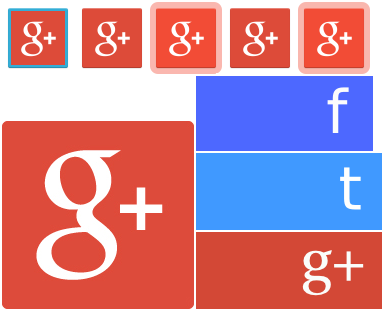
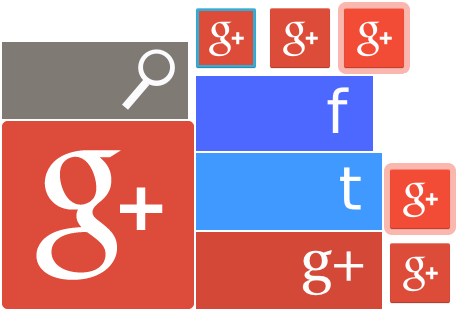
Added a new image for galcon search

diff --git a/GalCon-Client/GalCon-Client/src/com/xxx/galcon/screen/FriendScreen.java b/GalCon-Client/GalCon-Client/src/com/xxx/galcon/screen/FriendScreen.java
@@ -35,14 +35,12 @@ import com.xxx.galcon.http.GameAction;
 import com.xxx.galcon.http.SocialAction;
 import com.xxx.galcon.http.UIConnectionResultCallback;
 import com.xxx.galcon.model.Friend;
-import com.xxx.galcon.model.GameQueueItem;
-import com.xxx.galcon.model.MinifiedGame.MinifiedPlayer;
-import com.xxx.galcon.model.friends.CombinedFriend;
-import com.xxx.galcon.model.friends.FriendCombiner;
-import com.xxx.galcon.model.friends.GalConFriend;
 import com.xxx.galcon.model.GameInviteRequest;
 import com.xxx.galcon.model.People;
 import com.xxx.galcon.model.Point;
+import com.xxx.galcon.model.friends.CombinedFriend;
+import com.xxx.galcon.model.friends.FriendCombiner;
+import com.xxx.galcon.model.friends.GalConFriend;
 import com.xxx.galcon.screen.widget.ActionButton;
 import com.xxx.galcon.screen.widget.ScrollList;
 import com.xxx.galcon.screen.widget.ShaderLabel;
@@ -67,10 +65,7 @@ public class FriendScreen implements ScreenFeedback {
 	private ShaderTextField searchBox;
 	private ShaderLabel noResultsFound;
 	private ActionButton searchButton;
-	private ImageButton allButton;
-	private ShaderLabel allText;
-	private ImageButton friendsButton;
-	private ShaderLabel friendsLabel;
+	private ImageButton galButton;
 	private ImageButton fbButton;
 	private ImageButton gpButton;
 
@@ -105,8 +100,6 @@ public class FriendScreen implements ScreenFeedback {
 		createBg();
 		createWaitImage();
 		createBackButton();
-		createAllTabButton();
-		createFriendsTabButton();
 		createSearchBox();
 		createSearchButton();
 		createSearchLabels();
@@ -115,10 +108,24 @@ public class FriendScreen implements ScreenFeedback {
 		showFriends();
 		showFbButton();
 		showGpButton();
+		showGalconButton();
 		
 		Gdx.input.setInputProcessor(stage);
 	}
 
+
+	private void showGalconButton() {
+		galButton = new ImageButton(skin, Constants.UI.GALCON_SEARCH_IMAGE);
+		galButton.setWidth(Gdx.graphics.getWidth() * 0.2f);
+		galButton.setHeight(Gdx.graphics.getHeight() * 0.15f);
+		galButton.setX(gpButton.getX() - (galButton.getWidth() * 1.1f));
+		galButton.setY(backButton.getY() - (galButton.getHeight() * 0.25f));
+		
+		stage.addActor(galButton);
+		
+		galButton.addListener(allClickListener);
+		
+	}
 
 	private void showGpButton() {
 		gpButton = new ImageButton(skin, Constants.UI.GOOGLE_PLUS_SIGN_IN_NORMAL);
@@ -200,49 +207,6 @@ public class FriendScreen implements ScreenFeedback {
 		
 		group.addActor(playerLabel);
 
-	}
-
-	
-	private void createAllTabButton(){
-		float width = Gdx.graphics.getWidth();
-		float height = Gdx.graphics.getHeight();	
-		
-		float bWidth = width * 0.5f;
-		float bHeight = bWidth * 0.30f;
-		
-		float tabY = height * 0.8f - bHeight * 0.5f;
-				
-		allButton = new ImageButton(skin, Constants.UI.BASIC_BUTTON);
-		allButton.addListener(allClickListener);
-		createTabButton(bWidth, bHeight, 0f, tabY, allButton, allText, "All");
-	}
-	
-	private void createFriendsTabButton() {
-		float width = Gdx.graphics.getWidth();
-		float height = Gdx.graphics.getHeight();
-	
-		float bWidth = width * 0.5f;
-		float bHeight = bWidth * 0.30f;	
-		float tabY = height * 0.8f - bHeight * 0.5f;
-				
-		friendsButton = new ImageButton(skin, Constants.UI.BASIC_BUTTON);
-		friendsButton.addListener(friendClickListener);
-		createTabButton(bWidth, bHeight, bWidth, tabY, friendsButton, friendsLabel, "Friends");
-	}
-
-	private void createTabButton(float tabWidth, float tabHeight, float x, float y, ImageButton button, ShaderLabel label, String labelText) {
-		button.setLayoutEnabled(false);
-		button.setBounds(x, y, tabWidth, tabHeight);
-
-		label = new ShaderLabel(fontShader, labelText, skin, Constants.UI.BASIC_BUTTON_TEXT);
-		label.setAlignment(Align.center);
-		label.setX(button.getX());
-		label.setY(button.getY() + button.getHeight() / 2 - label.getHeight() * 0.5f);
-		label.setWidth(button.getWidth());
-		label.setTouchable(Touchable.disabled);
-
-		stage.addActor(button);
-		stage.addActor(label);
 	}
 
 
@@ -343,7 +307,7 @@ public class FriendScreen implements ScreenFeedback {
 		searchBox.setWidth(width * 0.75f);
 		searchBox.setHeight(height * .08f);
 		searchBox.setX(width * 0.5f - searchBox.getWidth() * 0.6f);
-		searchBox.setY(allButton.getY() - (height * 0.1f));
+		searchBox.setY(backButton.getY() - (height * 0.1f));
 		searchBox.setOnscreenKeyboard(new ShaderTextField.DefaultOnscreenKeyboard());
 		
 		searchBox.addListener(new ChangeListener() {

diff --git a/GalCon-Client/GalCon-Client/src/com/xxx/galcon/screen/widget/ShaderTextField.java b/GalCon-Client/GalCon-Client/src/com/xxx/galcon/screen/widget/ShaderTextField.java
@@ -520,9 +520,11 @@ public class ShaderTextField extends Widget implements Disableable {
 					font.setColor(style.messageFontColor.r, style.messageFontColor.g, style.messageFontColor.b,
 							style.messageFontColor.a * parentAlpha);
 				} else
-					font.setColor(0.7f, 0.7f, 0.7f, parentAlpha);
+				font.setColor(0.7f, 0.7f, 0.7f, parentAlpha);
+				batch.setShader(fontShader);
 				BitmapFont messageFont = style.messageFont != null ? style.messageFont : font;
 				messageFont.draw(batch, messageText, x + bgLeftWidth, y + textY + yOffset);
+				batch.setShader(null);
 			}
 		} else {
 			font.setColor(fontColor.r, fontColor.g, fontColor.b, fontColor.a * parentAlpha);

diff --git a/GalCon-Client/GalCon-Client/src/com/xxx/galcon/UISkin.java b/GalCon-Client/GalCon-Client/src/com/xxx/galcon/UISkin.java
@@ -146,6 +146,10 @@ public class UISkin extends Skin {
 			TextureRegionDrawable trd = new TextureRegionDrawable(socialAtlas.findRegion("google_plus_custom_normal"));
 			add(Constants.UI.GOOGLE_PLUS_SIGN_IN_NORMAL, new ImageButtonStyle(null, null, null, trd, trd, trd));
 		}
+		{
+			TextureRegionDrawable trd = new TextureRegionDrawable(socialAtlas.findRegion("galcon_search_custom_normal"));
+			add(Constants.UI.GALCON_SEARCH_IMAGE, new ImageButtonStyle(null, null, null, trd, trd, trd));
+		}
 
 		TextureRegionDrawable trd = new TextureRegionDrawable(levelSelectionAtlas.findRegion("reg_play"));
 		add("regularPlay", new ImageButtonStyle(trd, trd, trd, trd, trd, trd));

diff --git a/GalCon-Client/GalCon-Client/src/com/xxx/galcon/Constants.java b/GalCon-Client/GalCon-Client/src/com/xxx/galcon/Constants.java
@@ -46,6 +46,8 @@ public class Constants {
 		public static final String EXPLOSION_PARTICLE = "explosionParticle";
 
 		public static final String GOOGLE_PLUS_SIGN_IN_NORMAL = "googlePlusSignInImageButton";
+		public static final String GALCON_SEARCH_IMAGE = "galconSearchImage";
+
 	}
 
 	public static class Auth {
